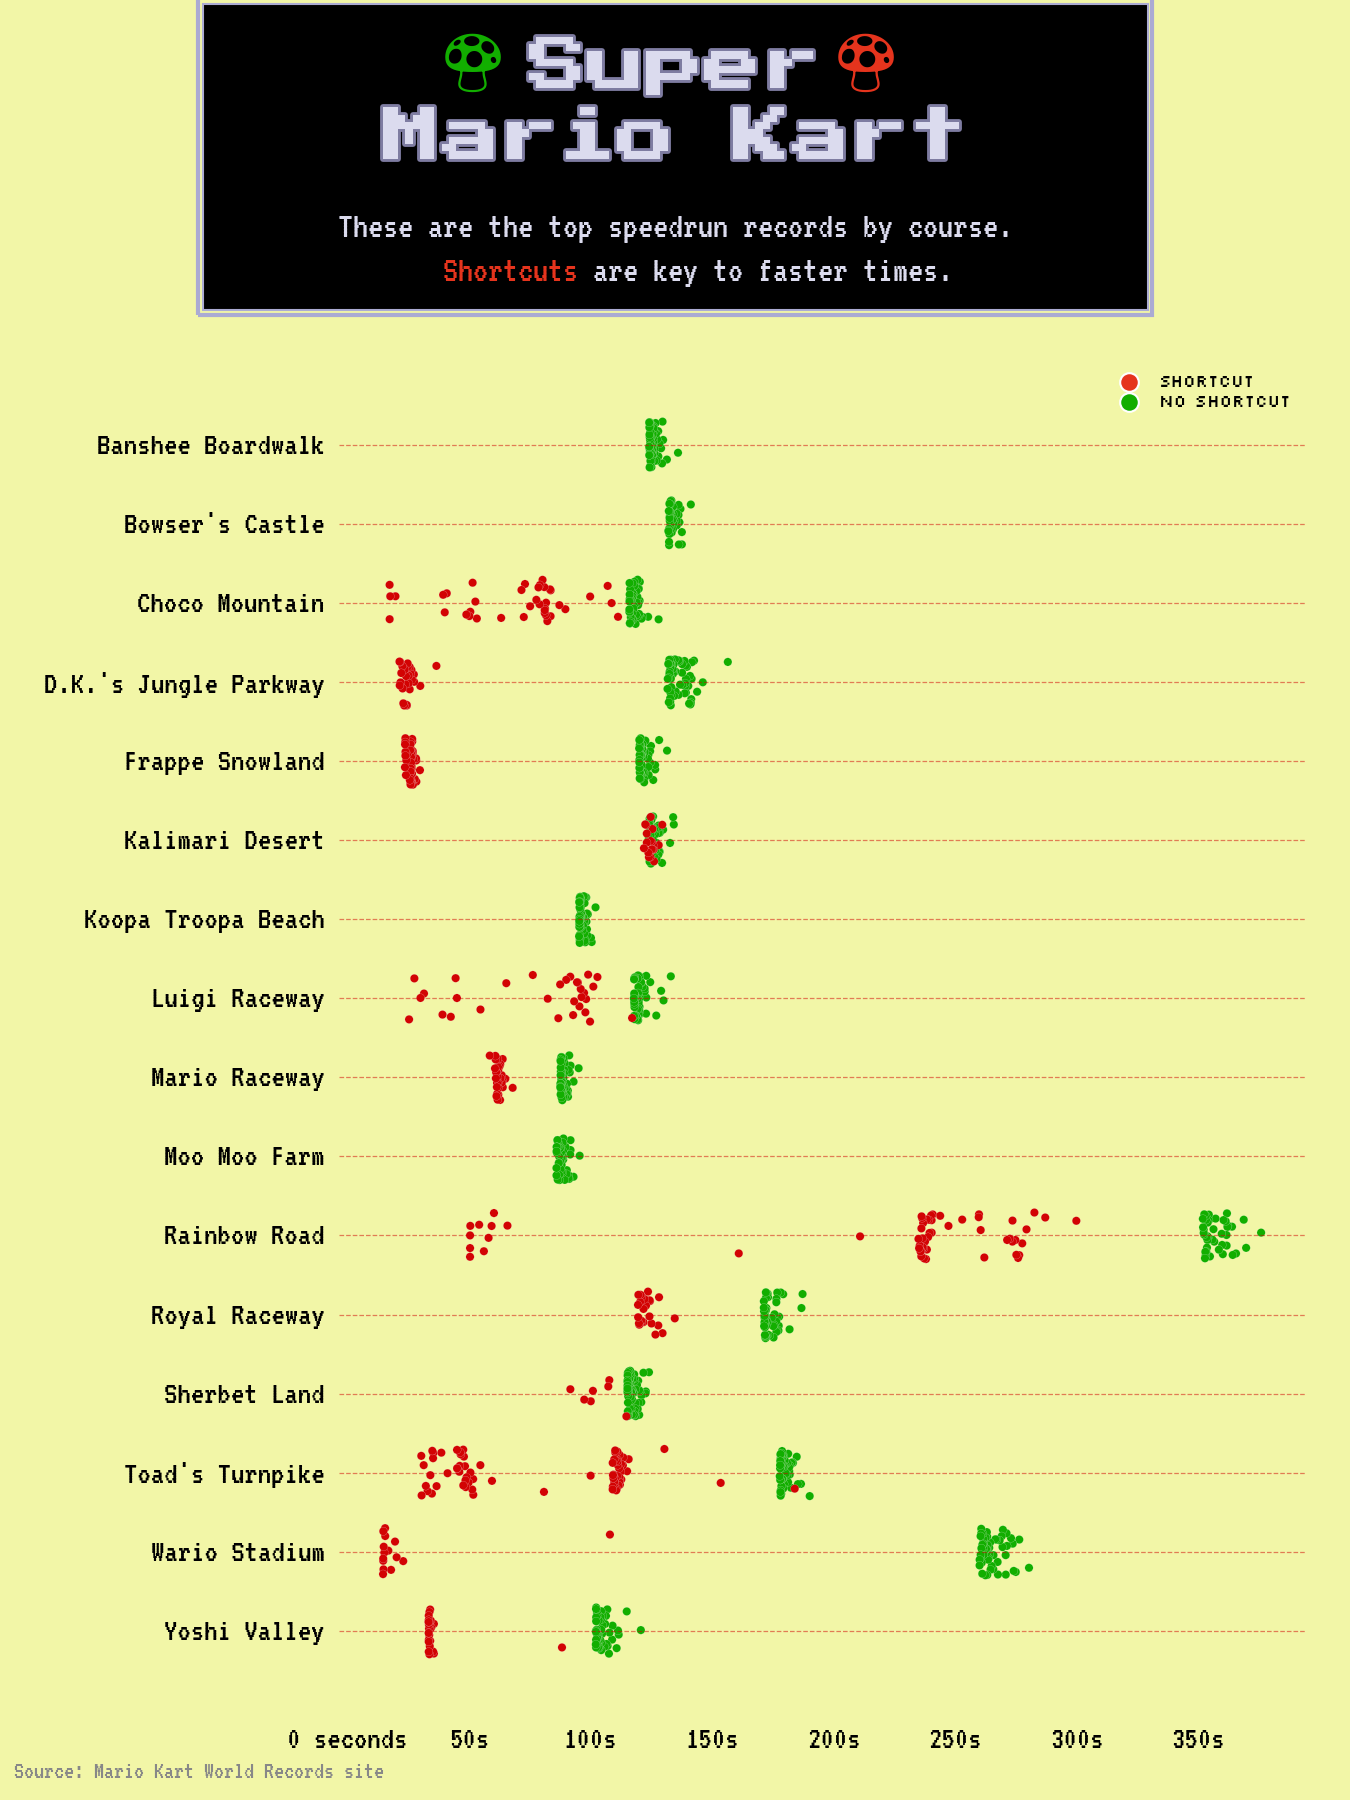
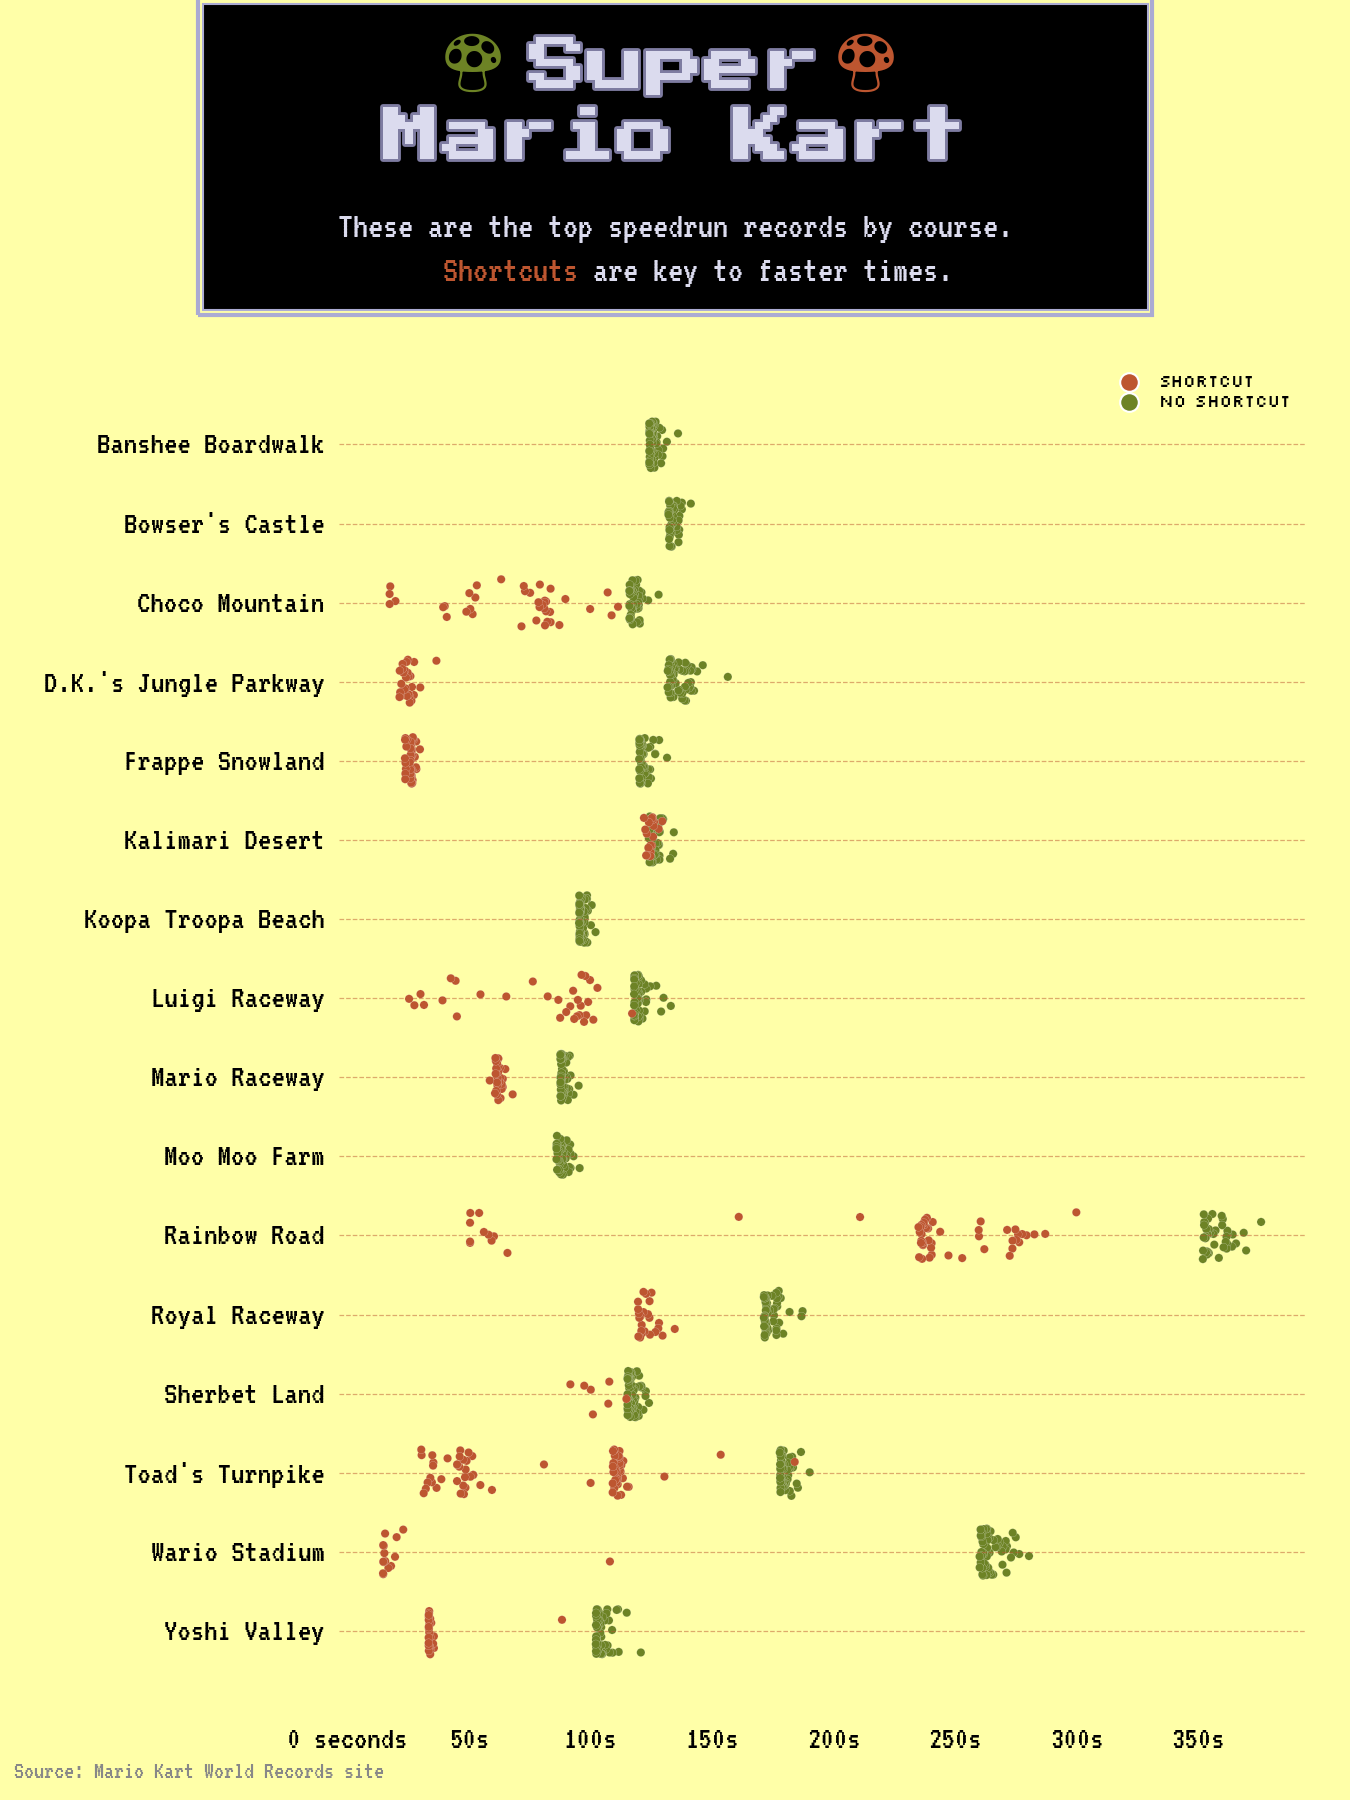
Initial Commit

diff --git a/code/mario_kart_01.py b/code/mario_kart_01.py
@@ -42,12 +42,12 @@ mario_pastel_colors = [
 ]
 
 mario_colors = [
-    "#f2f6a7",
-    '#E5341D',
-    '#12AE00',
+    "#FFFFA8",
+    cmap[-1],
+    cmap[1],
     '#FFFFB4',
-    "#F7B500",  # yellow amber
-    '#D20303',  # traffice light red
+    cmap[-2],  # yellow amber
+    cmap[-1],  # traffice light red
 ]
 
 def jitter(df, col, amount=0.30):
